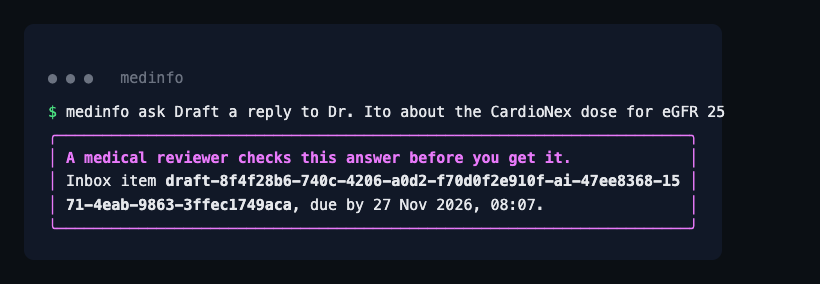
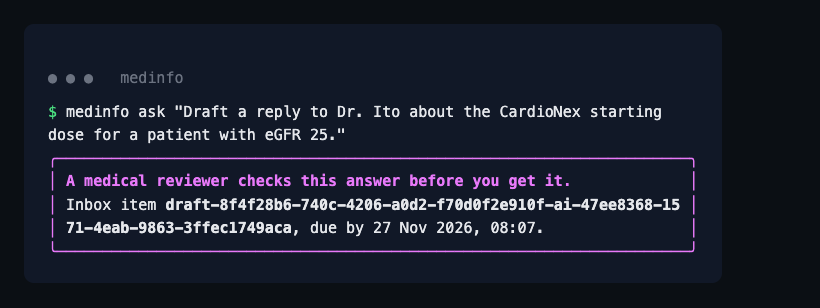
Sync checkpoint with origin/main (dd0e233)
Takes the origin/main tree, except the milestone files this step still
starts from: src/server/medinfo-agent.ts scripts/run-dataset.ts src/server/routes.ts scripts/judge/faithfulness.ts src/server/gateway.ts src/server/gateway.test.ts src/server/app.ts src/server/auth.ts src/server/auth.test.ts src/server/db.ts src/server/env.ts
  src/server/graph.ts src/server/graph.test.ts src/server/index.ts src/server/labels.ts src/server/labels.test.ts
  src/server/medinfo-agent.ts src/server/migrations/001_sessions.sql src/server/permissions.ts
  src/server/permissions.test.ts src/server/routes.ts src/server/sessions.ts src/server/sessions.test.ts
  src/server/tools.ts src/server/trace-identity.test.ts src/server/users.ts
  src/client/App.tsx src/client/chat/Thread.tsx src/client/chat/api.ts src/client/chat/suggestions.ts
  src/client/chat/suggestions.test.ts src/client/styles/app.css
  scripts/run-dataset.ts scripts/fga-model.ts scripts/fga-model.test.ts scripts/identity-setup.ts scripts/identity-smoke.ts src/server/mcp.ts src/server/mcp.test.ts src/server/app.ts src/server/auth.ts scripts/identity-setup.ts
  .mcp.json .claude/skills/hcp-labels/SKILL.md langfuse/workshop.override.yml scripts/langfuse-code-eval.ts
  src/executor/sandbox.ts src/executor/server.ts src/executor/worker.ts src/executor/planted.ts
  src/executor/executor.test.ts src/executor/package.json src/executor/package-lock.json
[…]

Changed region(s): [[0.061, 0.338, 0.8841, 0.7606], [0.061, 0.7887, 0.8537, 0.8451], [0.061, 0.2254, 0.2439, 0.3099]]

diff --git a/docs/learner/19-cli.md b/docs/learner/19-cli.md
@@ -125,11 +125,13 @@ medinfo whoami
 ## Step 4: Ask a question
 
 ```bash
-medinfo ask What is the CardioNex starting dose for adults?
-medinfo ask What is the NeuroVex dose?
+medinfo ask "What is the CardioNex starting dose for adults?"
+medinfo ask "What is the NeuroVex dose?"
 ```
 
 ![Two questions from the terminal](../images/cli/02-ask.png)
+
+Put the question in quotes. zsh and bash treat a bare `?` as a file pattern, so `medinfo ask What is the dose?` can fail before the CLI even starts.
 
 The answer streams in, with the citations in colour so a doctor sees at a glance where each fact comes from. Ana works for Pharma A, so the NeuroVex question gets INSUFFICIENT_CONTEXT: the search never returns Pharma B's label, as in lesson 11. Nothing in the CLI does that; the server does.
 
@@ -210,7 +212,7 @@ Every command that prints something has a plain form:
 
 ```bash
 medinfo whoami --json
-medinfo ask --json What is the CardioNex starting dose for adults?
+medinfo ask --json "What is the CardioNex starting dose for adults?"
 medinfo inbox --json | jq '.items[] | select(.status == "waiting") | .id'
 ```
 
